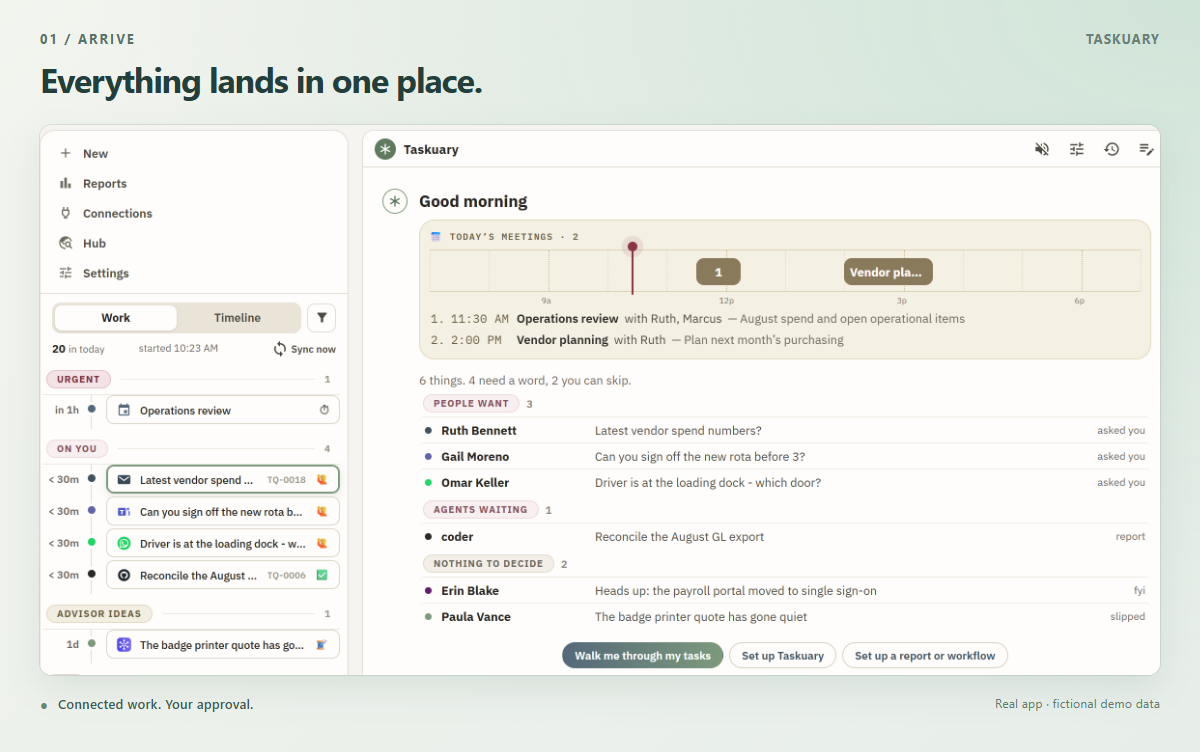
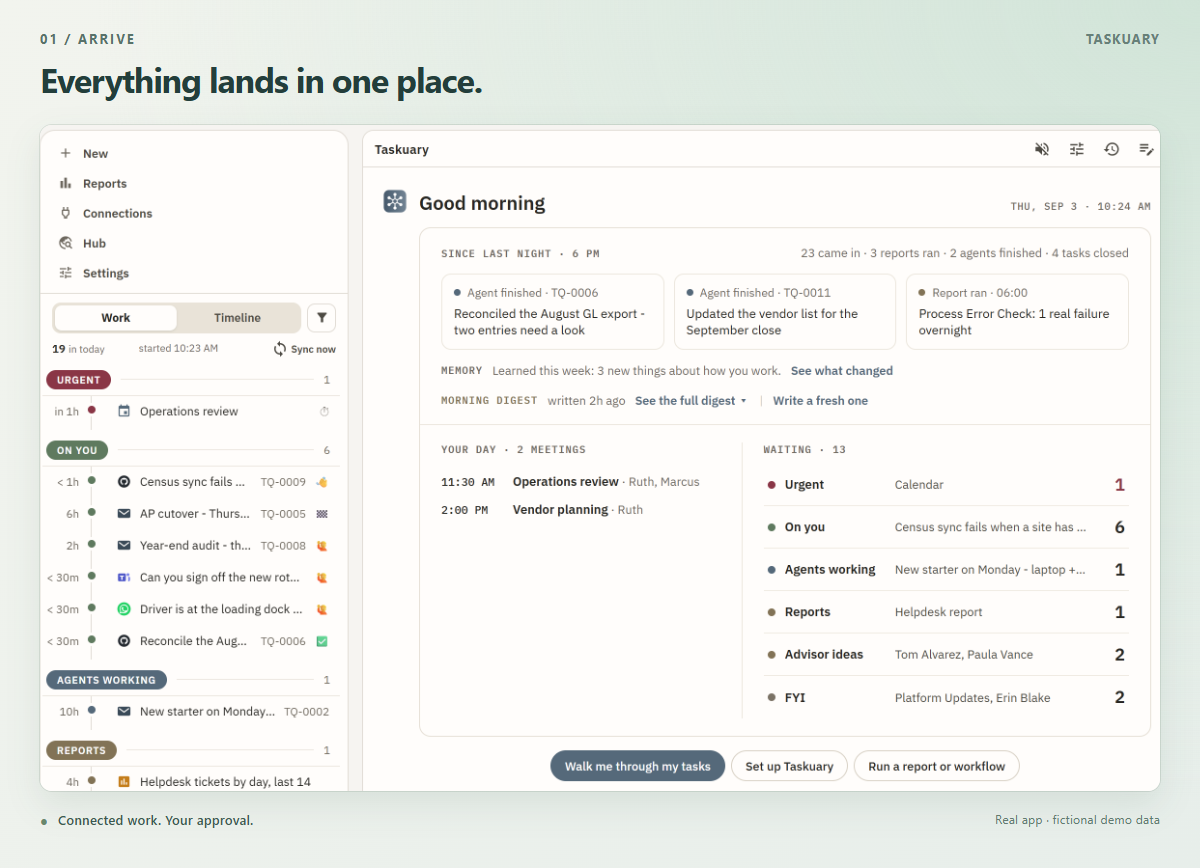
The README opens on the new opening card
Section 1's picture showed the grey meetings box and the old who-wants-what list.
It is re-shot from the full demo on a fresh chat: what changed since last night,
the memory and morning digest lines, the day's meetings and what waits in each
section, beside the work rail. capture-readme/render-readme gain --home-only.

diff --git a/README.md b/README.md
@@ -39,10 +39,11 @@ numbers through the real app, using fictional demo data.
 ### 1. Everything lands in one place
 
 Mail, chats, issue trackers, alerts, and reports arrive on one rail, sorted by what they need:
-**Urgent**, **On you**, **For later**, the Advisor's ideas, and **FYI**. Beside it, the Assistant
-says what came in and who is waiting, so you never open each system in turn.
+**Urgent**, **On you**, **For later**, the Advisor's ideas, and **FYI**. Beside it, the day opens on
+one card: what changed since last night, what was learned, the morning digest, your meetings, and
+what waits in each section - so you never open each system in turn.
 
-![The work rail sorting today's items into Urgent, On you, Advisor ideas, and FYI, beside the Assistant's morning summary of who is waiting.](https://raw.githubusercontent.com/ldbumble/taskuary/master/docs/readme/01-timeline-sources-and-times.png?v=95295dd)
+![The work rail sorting today's items into Urgent, On you, Agents working, Reports, Advisor ideas, and FYI, beside the opening card: agents that finished and a report that ran since last night, the memory and morning digest lines, today's meetings, and what waits in each section.](https://raw.githubusercontent.com/ldbumble/taskuary/master/docs/readme/01-timeline-sources-and-times.png?v=opening-card)
 
 ### 2. Let the Assistant walk you through it
 

diff --git a/README.zh-CN.md b/README.zh-CN.md
@@ -43,10 +43,10 @@ Qwen Code 使用哪个云端或本地模型，由你配置。见[使用 Qwen Cod
 ### 1. 所有工作汇集到一处
 
 邮件、聊天、工单、提醒和报表都进入同一条工作栏，并按需要处理的方式分组：
-**Urgent**、**On you**、**For later**、Advisor 的建议，以及 **FYI**。旁边的助手会说明刚到了什么、谁在等你，
-不用逐个打开各个系统。
+**Urgent**、**On you**、**For later**、Advisor 的建议，以及 **FYI**。旁边是一天的开场卡片：昨晚以来的变化、
+学到的东西、早间摘要、今天的会议，以及每个分组里在等你的事，不用逐个打开各个系统。
 
-![工作栏把今天的事项分为 Urgent、On you、Advisor ideas 和 FYI，旁边是助手的早间摘要，列出谁在等你。](https://raw.githubusercontent.com/ldbumble/taskuary/master/docs/readme/01-timeline-sources-and-times.png?v=95295dd)
+![工作栏把今天的事项分组，旁边是开场卡片：昨晚以来完成的代理和运行的报表、记忆与早间摘要、今天的会议，以及每个分组里在等你的事。](https://raw.githubusercontent.com/ldbumble/taskuary/master/docs/readme/01-timeline-sources-and-times.png?v=opening-card)
 
 ### 2. 让助手带你逐项处理
 

diff --git a/docs/readme/README.md b/docs/readme/README.md
@@ -35,6 +35,7 @@ The LEARNED.md image uses authored example lessons in the real document editor.
 To recapture and frame just those two images, add `--memory-update` to both commands.
 For just the Timeline image, use `--timeline-only` instead.
 For just the CLI connections image (including Qwen Code), use `--cli-only`.
+For just the first image (the opening card in the full demo, on a fresh chat), use `--home-only` with both commands.
 
 Review every final image at README width after regenerating: titles, amounts,
 source context, action buttons, and the ends of cards must remain visible.
